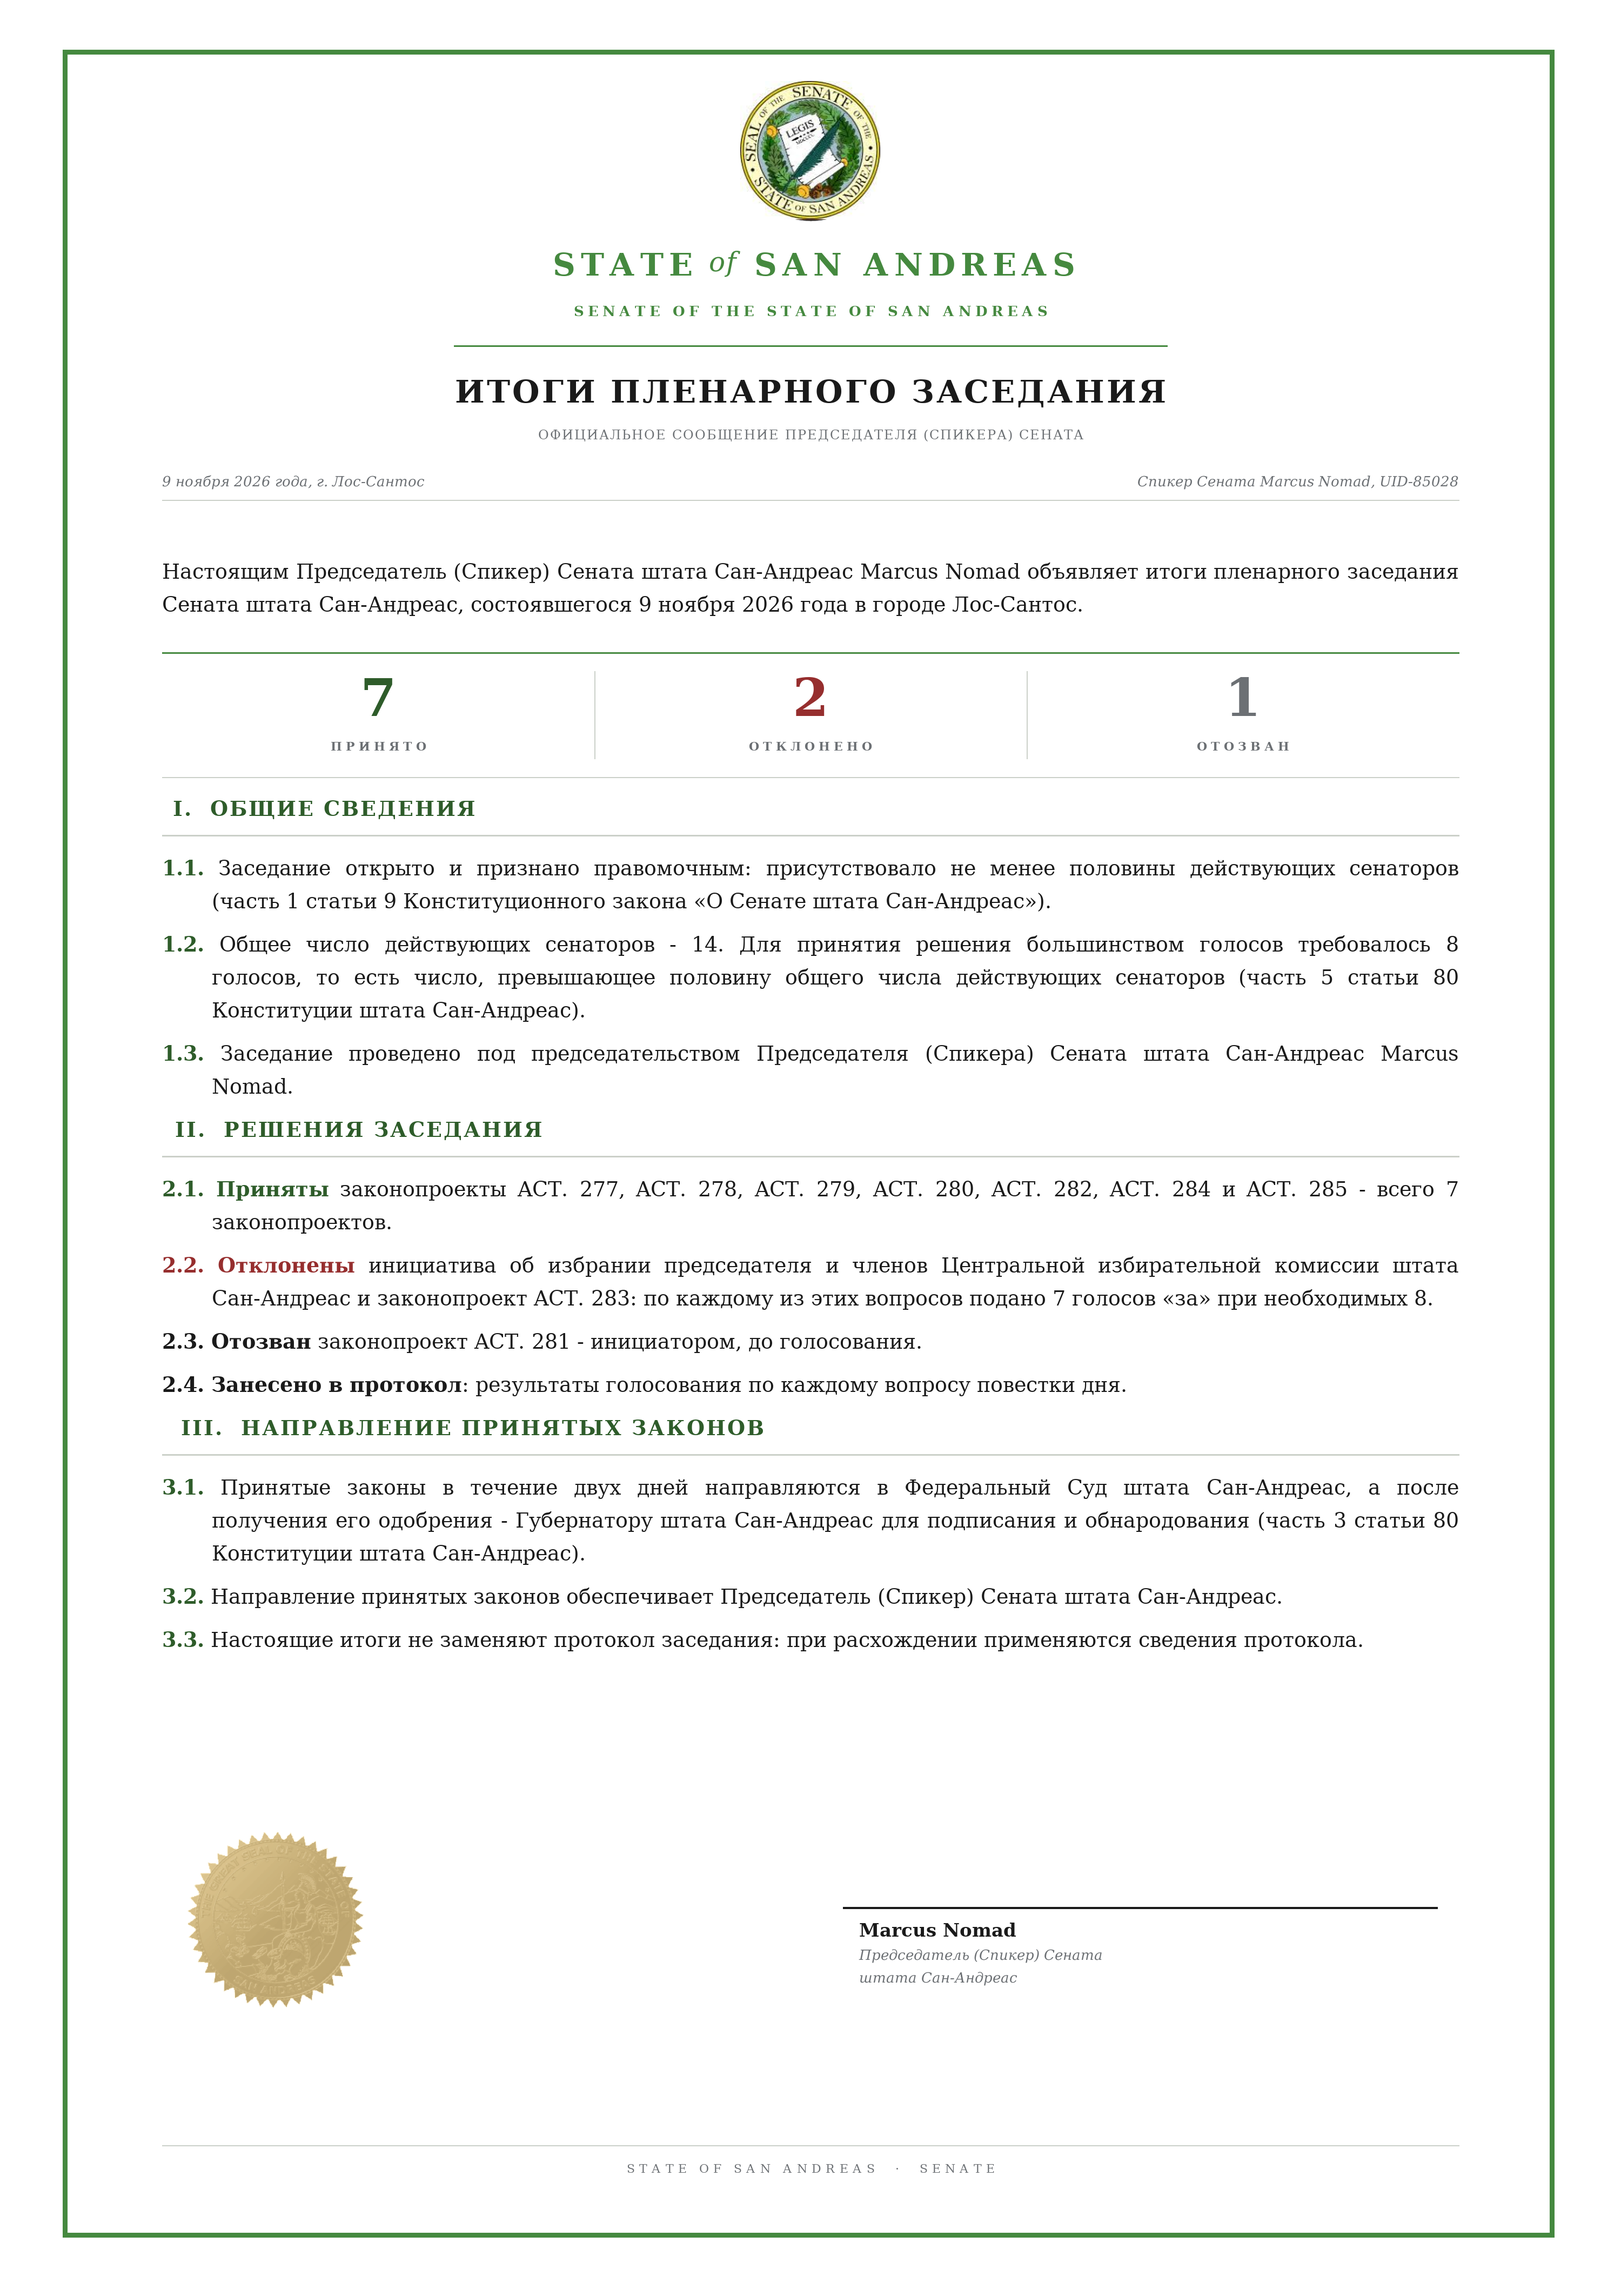
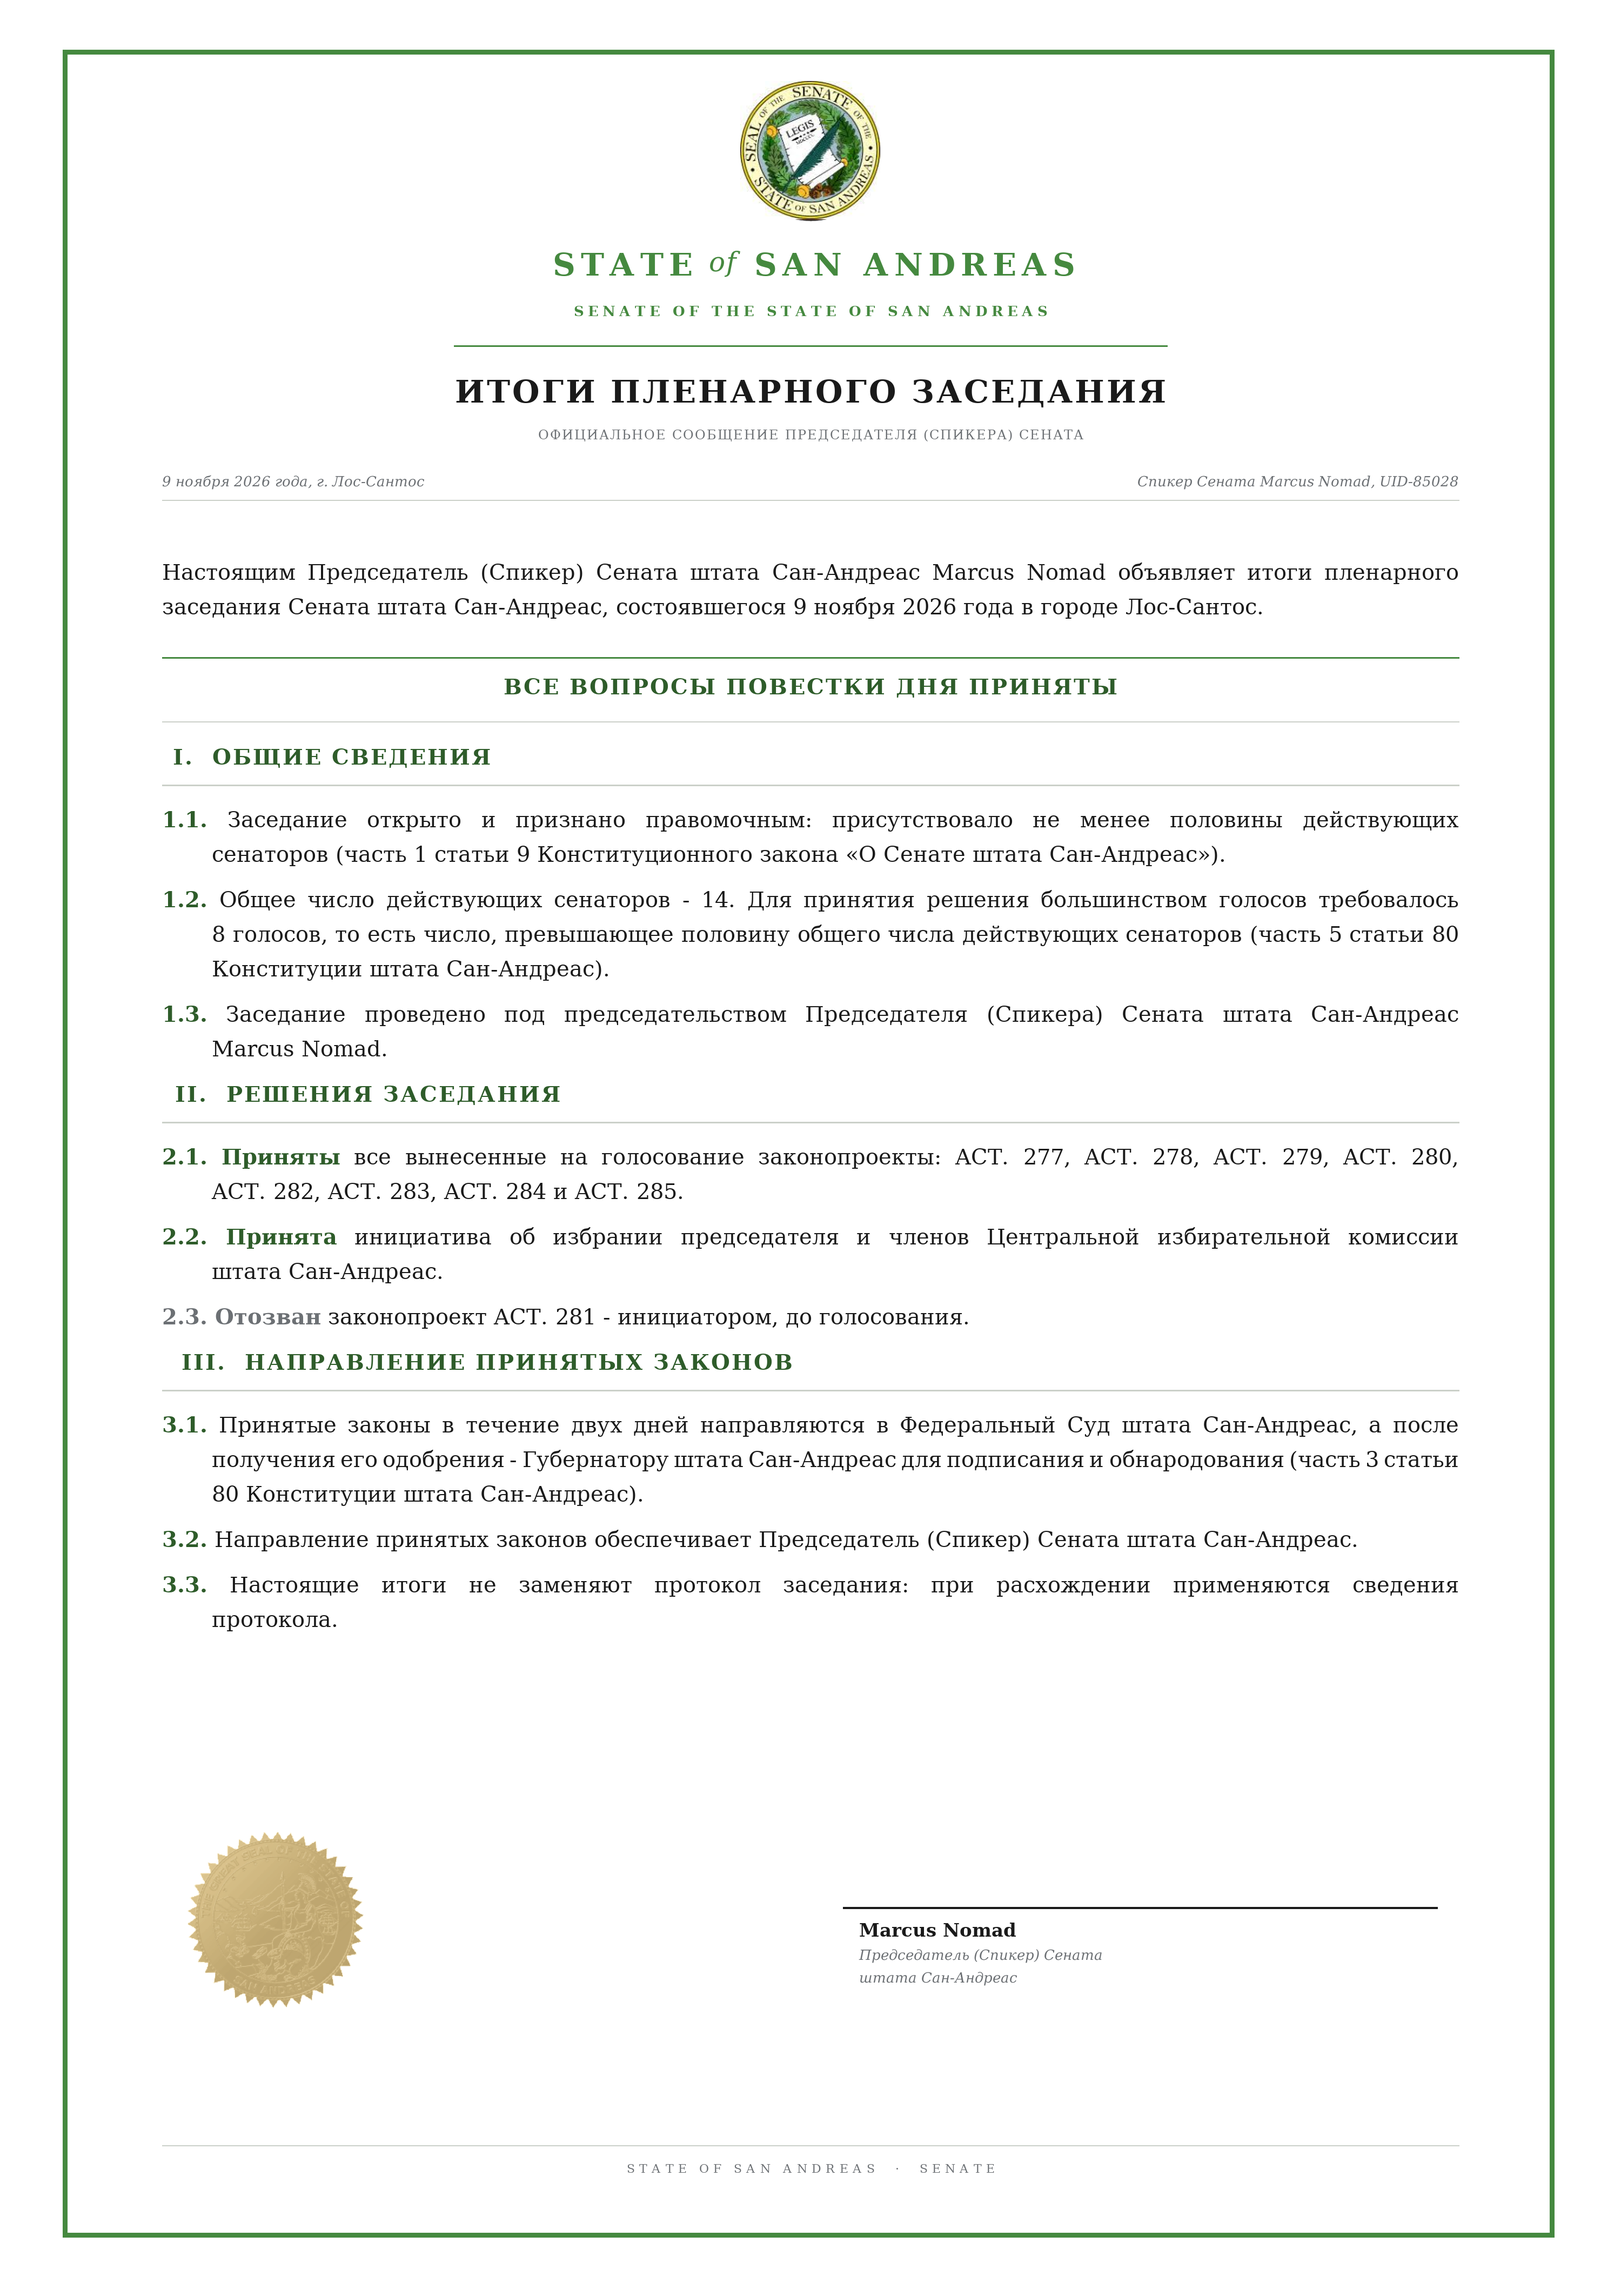
Сенат: итоги 09.11 - все вопросы приняты, итоги голосования убраны

Changed region(s): [[0.093, 0.2499, 0.899, 0.7186]]

diff --git a/tools/make_senat_results_png.py b/tools/make_senat_results_png.py
@@ -162,22 +162,14 @@ def heading(d, y, text, size=30, draw=True):
 
 # ------------------------------------------------------------------ контент
 
-def stats(d, y, size, draw=True):
-    """Сводка в три числа - без таблицы."""
-    h = 230
+def essence(d, y, size, draw=True):
+    """Одна строка-суть вместо любых итогов голосования."""
+    h = 118
     if draw:
         d.line([(BODY_L, y), (BODY_R, y)], fill=GREEN, width=3)
         d.line([(BODY_L, y + h), (BODY_R, y + h)], fill=RULE, width=2)
-        for x in (BODY_L + 800, BODY_L + 1600):
-            d.line([(x, y + 34), (x, y + h - 34)], fill=RULE, width=2)
-
-    cells = [("7", "ПРИНЯТО", GREEN_D), ("2", "ОТКЛОНЕНО", RED), ("1", "ОТОЗВАН", MUTED)]
-    for i, (num, label, col) in enumerate(cells):
-        cx = BODY_L + 400 + i * 800
-        fn = F(FB, 96)
-        if draw:
-            d.text((cx - tw(d, num, fn) / 2, y + 26), num, font=fn, fill=col)
-        tracked(d, y + 160, label, F(FB, 22), 7, MUTED, center_at=cx, draw=draw)
+    tracked(d, y + 30, "ВСЕ ВОПРОСЫ ПОВЕСТКИ ДНЯ ПРИНЯТЫ",
+            F(FB, 40), 3, GREEN_D, draw=draw)
     return y + h
 
 
@@ -210,16 +202,13 @@ def section_common(d, y, size, draw=True):
 def section_decisions(d, y, size, draw=True):
     items = [
         [("2.1. Приняты", "b", GREEN_D),
-         (" законопроекты ACT. 277, ACT. 278, ACT. 279, ACT. 280, ACT. 282, ACT. 284 и "
-          "ACT. 285 - всего 7 законопроектов.", "r", INK)],
-        [("2.2. Отклонены", "b", RED),
+         (" все вынесенные на голосование законопроекты: ACT. 277, ACT. 278, "
+          "ACT. 279, ACT. 280, ACT. 282, ACT. 283, ACT. 284 и ACT. 285.", "r", INK)],
+        [("2.2. Принята", "b", GREEN_D),
          (" инициатива об избрании председателя и членов Центральной избирательной "
-          "комиссии штата Сан-Андреас и законопроект ACT. 283: по каждому из этих "
-          "вопросов подано 7 голосов «за» при необходимых 8.", "r", INK)],
-        [("2.3. Отозван", "b", INK),
+          "комиссии штата Сан-Андреас.", "r", INK)],
+        [("2.3. Отозван", "b", MUTED),
          (" законопроект ACT. 281 - инициатором, до голосования.", "r", INK)],
-        [("2.4. Занесено в протокол", "b", INK),
-         (": результаты голосования по каждому вопросу повестки дня.", "r", INK)],
     ]
     return numbered(d, y, items, size, draw)
 
@@ -249,8 +238,8 @@ def body(d, size, draw=True):
                      "Лос-Сантос.", "r", INK)],
              size=size, lh=int(size * 1.62), space_after=int(size * 1.35), draw=draw)
 
-    y = stats(d, y, size, draw)
-    y += int(size * 0.95)
+    y = essence(d, y, size, draw)
+    y += int(size * 1.05)
 
     y = heading(d, y, "I.  ОБЩИЕ СВЕДЕНИЯ", size, draw)
     y = section_common(d, y, size, draw)

diff --git a/tools/build_senat_results.py b/tools/build_senat_results.py
@@ -29,7 +29,7 @@ LEAD = ("Настоящим Председатель (Спикер) Сената
         "итоги пленарного заседания Сената штата Сан-Андреас, состоявшегося 9 ноября 2026 "
         "года в городе Лос-Сантос.")
 
-SUMMARY = "Принято - 7. Отклонено - 2. Отозвано - 1."
+SUMMARY = "Все вопросы повестки дня приняты."
 
 COMMON = [
     "Заседание открыто и признано правомочным: присутствовало не менее половины "
@@ -45,16 +45,13 @@ COMMON = [
 ]
 
 DECISIONS = [
-    "Приняты законопроекты ACT. 277, ACT. 278, ACT. 279, ACT. 280, ACT. 282, ACT. 284 и "
-    "ACT. 285 - всего 7 законопроектов.",
+    "Приняты все вынесенные на голосование законопроекты: ACT. 277, ACT. 278, ACT. 279, "
+    "ACT. 280, ACT. 282, ACT. 283, ACT. 284 и ACT. 285.",
 
-    "Отклонены инициатива об избрании председателя и членов Центральной избирательной "
-    "комиссии штата Сан-Андреас и законопроект ACT. 283: по каждому из этих вопросов "
-    "подано 7 голосов «за» при необходимых 8.",
+    "Принята инициатива об избрании председателя и членов Центральной избирательной "
+    "комиссии штата Сан-Андреас.",
 
     "Отозван законопроект ACT. 281 - инициатором, до голосования.",
-
-    "В протокол занесены результаты голосования по каждому вопросу повестки дня.",
 ]
 
 SENDING = [

diff --git a/Сенат/Итоги пленарного заседания (09.11.2026)/Итоги пленарного заседания Сената — 09.11.2026.md b/Сенат/Итоги пленарного заседания (09.11.2026)/Итоги пленарного заседания Сената — 09.11.2026.md
@@ -1,7 +1,7 @@
 # Итоги пленарного заседания Сената - 9 ноября 2026 года
 
 Официальное сообщение Председателя (Спикера) Сената штата Сан-Андреас Marcus Nomad.
-Без таблицы: только суть. Поименные результаты голосований прилагаются отдельно.
+Без таблицы и без результатов голосования: только суть.
 Длинное тире не используется, только короткое "-".
 
 DOCX собирается `tools/build_senat_results.py`, PNG - `tools/make_senat_results_png.py`.
@@ -20,7 +20,7 @@ DOCX собирается `tools/build_senat_results.py`, PNG - `tools/make_sena
 пленарного заседания Сената штата Сан-Андреас, состоявшегося 9 ноября 2026 года в городе
 Лос-Сантос.
 
-**Принято - 7. Отклонено - 2. Отозвано - 1.**
+**Все вопросы повестки дня приняты.**
 
 ## ОБЩИЕ СВЕДЕНИЯ
 
@@ -34,13 +34,11 @@ DOCX собирается `tools/build_senat_results.py`, PNG - `tools/make_sena
 
 ## РЕШЕНИЯ ЗАСЕДАНИЯ
 
-1. Приняты законопроекты ACT. 277, ACT. 278, ACT. 279, ACT. 280, ACT. 282, ACT. 284 и
-   ACT. 285 - всего 7 законопроектов.
-2. Отклонены инициатива об избрании председателя и членов Центральной избирательной
-   комиссии штата Сан-Андреас и законопроект ACT. 283: по каждому из этих вопросов подано
-   7 голосов «за» при необходимых 8.
+1. Приняты все вынесенные на голосование законопроекты: ACT. 277, ACT. 278, ACT. 279,
+   ACT. 280, ACT. 282, ACT. 283, ACT. 284 и ACT. 285.
+2. Принята инициатива об избрании председателя и членов Центральной избирательной комиссии
+   штата Сан-Андреас.
 3. Отозван законопроект ACT. 281 - инициатором, до голосования.
-4. В протокол занесены результаты голосования по каждому вопросу повестки дня.
 
 ## НАПРАВЛЕНИЕ ПРИНЯТЫХ ЗАКОНОВ
 
